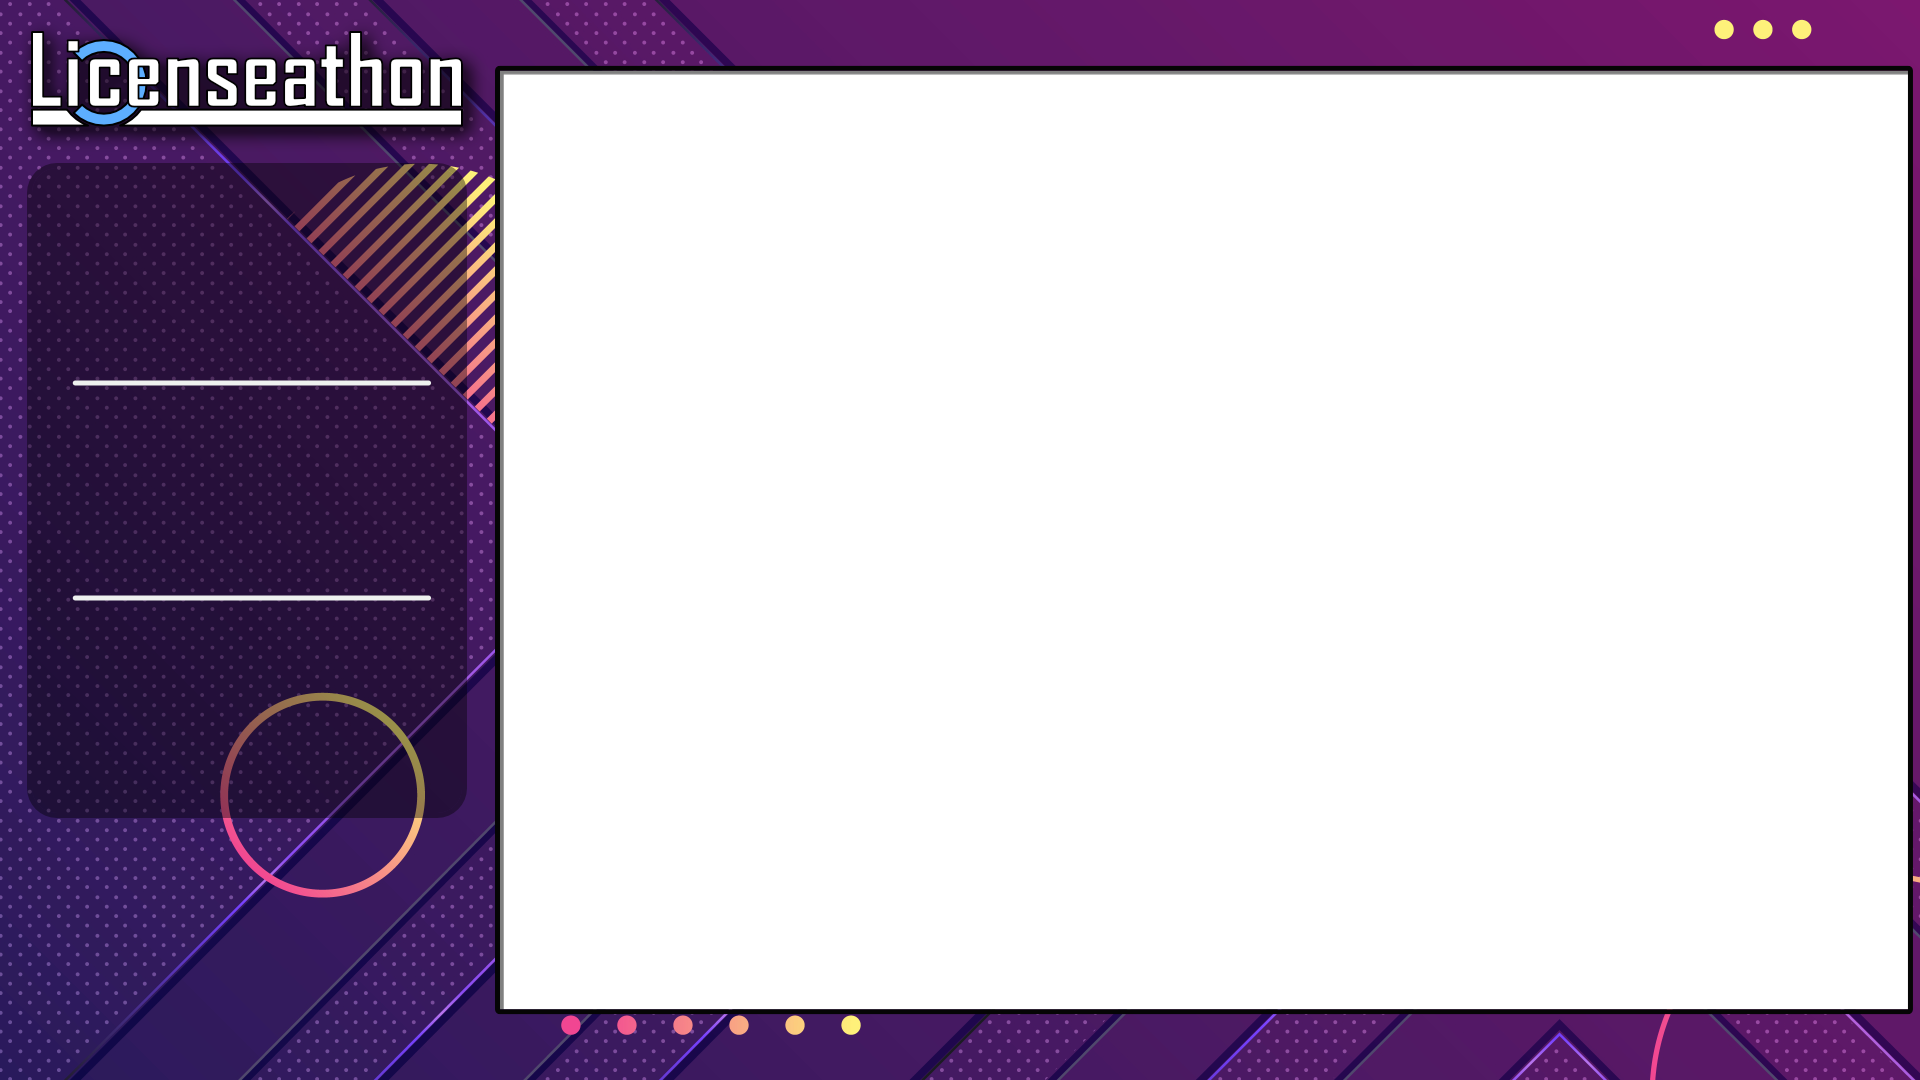
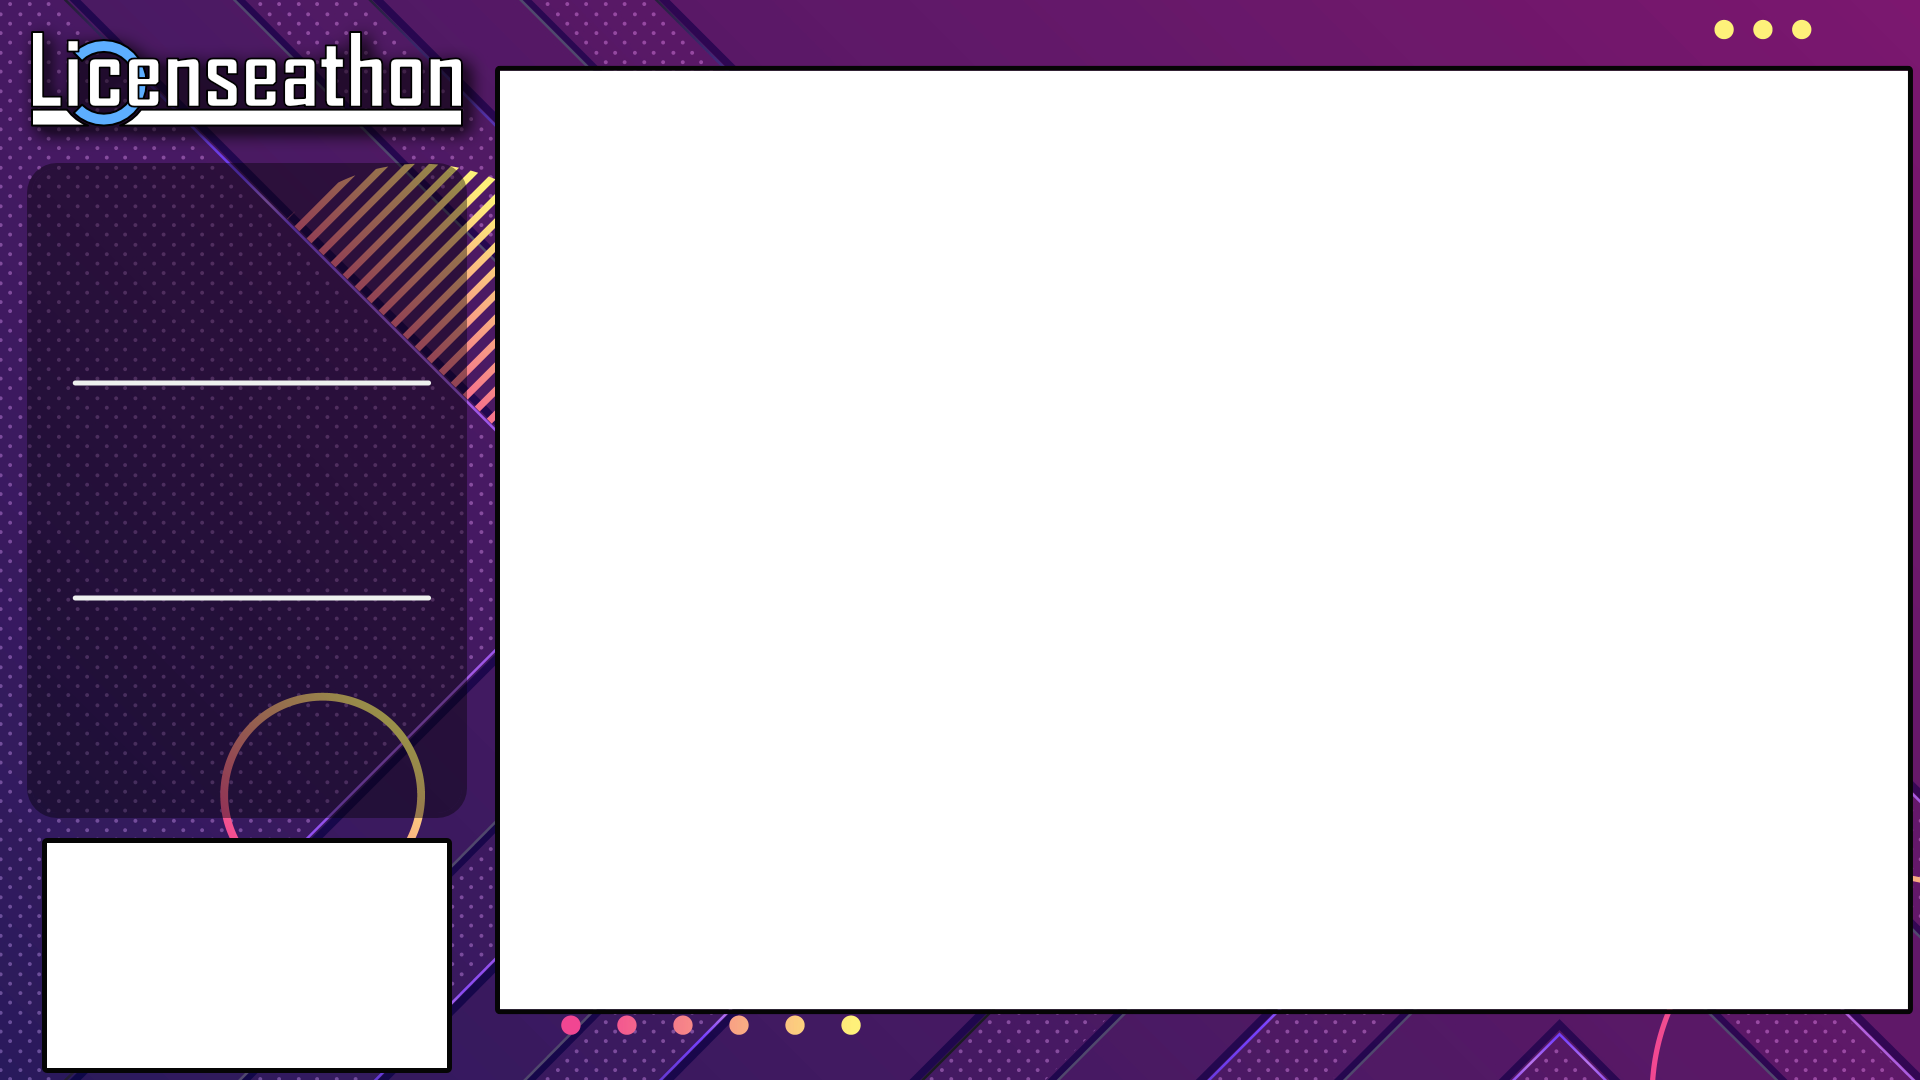
Add DS layout

Changed region(s): [[0.0, 0.7639, 0.25, 1.0], [0.25, 0.0611, 0.9688, 0.0917]]

diff --git a/graphics/1-player_nds.html b/graphics/1-player_nds.html
@@ -1,0 +1,49 @@
+<!DOCTYPE html>
+<html lang="en" data-sceneid="1p">
+<head>
+		<meta charset="UTF-8">
+		<title>Licenseathon (2p 4:3)</title>
+		<link rel="stylesheet" href="css/common.css">
+		<link rel="stylesheet" href="css/layouts/1-player_nds.css">
+
+		<script src="../bower_components/jquery/dist/jquery.min.js"></script>
+		<!-- <script src="../bower_components/jquery-fittext/jquery.fittext.js"></script> -->
+		<script src="js/fittext.js"></script>
+		<script src="js/animation.js"></script>
+		<script src="js/run-info.js"></script>
+		<script src="js/player-info.js"></script>
+		<script src="js/timer.js"></script>
+		
+		<script src="https://kit.fontawesome.com/2c8660a4ac.js" crossorigin="anonymous"></script>
+</head>
+	<body>
+		<!-- Background image -->
+		<div id="backgroundImage"></div>
+		
+		<!-- Player 1 information -->
+		<div player-id="1" class="playerContainer flexContainer">
+			<div class="nameContainer flexContainer">
+				<div class="playerText"><!-- Player Name --></div>
+			</div>
+		</div>
+
+		<!-- Run information -->
+		<div id="runInfoContainer" class="flexContainer">
+			<div id="gameTitle" class="flexContainer"><!-- Game Name --></div>
+			<div id="categoryContainer" class="flexContainer">
+				<div id="gameCategory"><!-- Game Category --></div>
+			</div>
+			<div id="estimateContainer" class="flexContainer">
+				<div id="gameEstimate" class="timer"><!-- Game Estimate --></div>
+			</div>
+		</div>
+		
+		<!-- Timer -->
+		<!-- <div id="timerInfoContainer" class="flexContainer"> -->
+			<div id="mainTimer" class="timerContainer flexContainer">
+				<div class="timer"><!-- Timer --></div>
+			</div>
+		<!-- </div> -->
+
+	</body>
+</html>

diff --git a/graphics/css/layouts/1-player_nds.css b/graphics/css/layouts/1-player_nds.css
@@ -1,0 +1,83 @@
+#backgroundImage {
+	position: fixed;
+	overflow: hidden;
+	margin: 0;
+	padding: 0;
+	background-image: url('../../img/layouts/DS\ Solo.png');
+	background-repeat: no-repeat;
+	background-size: cover;
+	width: 1920px;
+	height: 1080px;
+}
+
+/* Player information stuff. */
+.playerContainer .nameContainer {
+	font-size: 48px;
+}
+
+/* .playerContainer[player-id="1"] {
+	position: absolute;
+	left: 1458px;
+	top: 731px;
+	width: 430px;
+	height: 120px;
+} */
+
+.playerContainer[player-id="1"] {
+	position: absolute;
+	height: 80px;
+	width: 430px;
+	background: rgba(0, 0, 0, 0.5);
+	border-radius: 25px;
+	padding: 5px;
+	top: 726px;
+}
+
+/* Run information stuff. */
+#runInfoContainer {
+	position: absolute;
+	left: 745px;
+	top: 833px;
+	width: 430px;
+	height: 215px;
+}
+
+#gameTitle {
+	width: 100%;
+}
+
+#categoryContainer {
+	font-size: 30px;
+	width: 100%;
+}
+
+#estimateContainer {
+	font-size: 24px;
+	/* width: 50%; */
+}
+
+.timerContainer{
+	width: 210px;
+	height: 60px;
+	background: rgba(0, 0, 0, 0.5);
+	border-radius: 25px;
+	padding: 5px;
+}
+
+/* Timer stuff. */
+
+#mainTimer{
+	position: absolute;
+	height: 120px;
+	width: 430px;
+	background: rgba(0, 0, 0, 0.5);
+	border-radius: 25px;
+	padding: 5px;
+	bottom: 20px;
+	right: 157px;
+}
+
+/* .timer {
+	font-size: 54px;
+	-webkit-text-stroke: 2px black;
+} */
